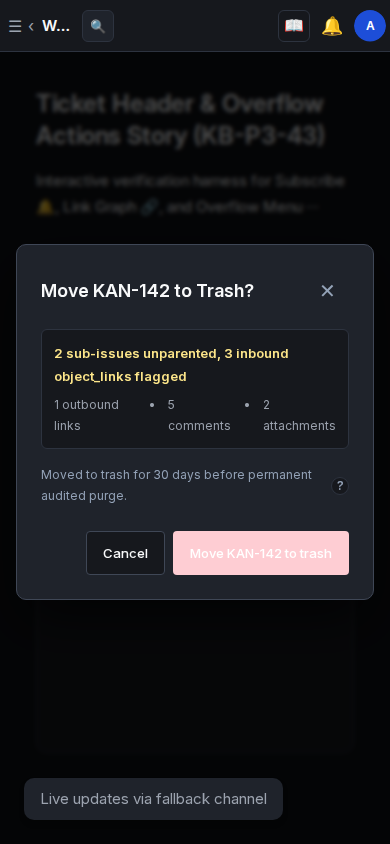
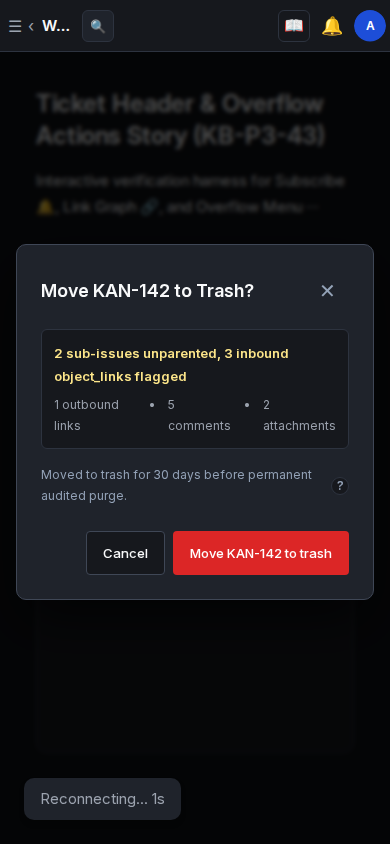
fix(drawer): [KAN-491] fix btn-danger dark mode contrast and dynamic retention summary

Changed region(s): [[0.4308, 0.6161, 0.8923, 0.7085], [0.0923, 0.9242, 0.7385, 0.9858]]

diff --git a/kanban/web/src/features/drawer-actions/DeleteBlastRadiusModal.test.tsx b/kanban/web/src/features/drawer-actions/DeleteBlastRadiusModal.test.tsx
@@ -483,9 +483,9 @@ describe('DeleteBlastRadiusModal (KB-P3-43, S7.2 8q)', () => {
       await waitFor(() => {
         expect(screen.getByText('Soft-Trash Retention & Purge Policy')).toBeDefined();
         expect(
-          screen.getByText(/Items moved to trash remain restorable by workspace administrators/i),
+          screen.getByText(/Items moved to trash remain restorable by workspace administrators during the 30-day retention window/i),
         ).toBeDefined();
-        expect(screen.getByText(/permanent cryptographic purge/i)).toBeDefined();
+        expect(screen.getByText(/After 30 days, the item and all associated object links undergo a permanent cryptographic purge/i)).toBeDefined();
       });
 
       const docLink = screen.getByRole('link', { name: /more info/i });
@@ -525,6 +525,14 @@ describe('DeleteBlastRadiusModal (KB-P3-43, S7.2 8q)', () => {
       // Proper glyph
       expect(source).toContain('✕');
       expect(source).not.toMatch(/<button[^>]*class(?:Name)?="modal-close-btn"[^>]*>\s*×\s*<\/button>/);
+
+      // Verify canonical tokens for .btn-danger in drawerActions.css (WCAG AA Dark Mode contrast)
+      const cssSource = fs.readFileSync(path.resolve(__dirname, 'drawerActions.css'), 'utf8');
+      expect(cssSource).toContain('color: var(--accent-primary-fg);');
+      expect(cssSource).toContain('background: var(--bg-danger);');
+      expect(cssSource).toContain('background: var(--bg-danger-hover);');
+      expect(cssSource).not.toMatch(/\.btn-danger\s*\{[^}]*#ffffff/);
+      expect(cssSource).not.toMatch(/\.btn-danger\s*\{[^}]*var\(--danger-fg\)/);
     });
 
     it('covers all branch fallbacks for deletion and error handling', async () => {

diff --git a/kanban/web/src/features/drawer-actions/DeleteBlastRadiusModal.tsx b/kanban/web/src/features/drawer-actions/DeleteBlastRadiusModal.tsx
@@ -212,7 +212,7 @@ export function DeleteBlastRadiusModal({
           </p>
           <FieldHelpHint
             title="Soft-Trash Retention & Purge Policy"
-            summary="Items moved to trash remain restorable by workspace administrators during the 30-day retention window. After 30 days, the item and all associated object links undergo a permanent cryptographic purge."
+            summary={`Items moved to trash remain restorable by workspace administrators during the ${String(retentionDays)}-day retention window. After ${String(retentionDays)} days, the item and all associated object links undergo a permanent cryptographic purge.`}
             defaultValue={`${String(retentionDays)} days`}
             docHref="/docs/universal-object-graph-and-link-auditor"
             testId="soft-trash-help-hint"

diff --git a/kanban/web/src/features/drawer-actions/drawerActions.css b/kanban/web/src/features/drawer-actions/drawerActions.css
@@ -536,15 +536,15 @@
   padding: 0 var(--space-3, 12px);
   font-size: var(--text-sm, 13px);
   font-weight: 500;
-  color: #ffffff;
-  background: var(--danger-fg);
+  color: var(--accent-primary-fg);
+  background: var(--bg-danger);
   border: 1px solid transparent;
   border-radius: var(--radius-sm, 6px);
   cursor: pointer;
 }
 
 .btn-danger:hover:not(:disabled) {
-  background: #be123c;
+  background: var(--bg-danger-hover);
 }
 
 .btn-danger:disabled {
